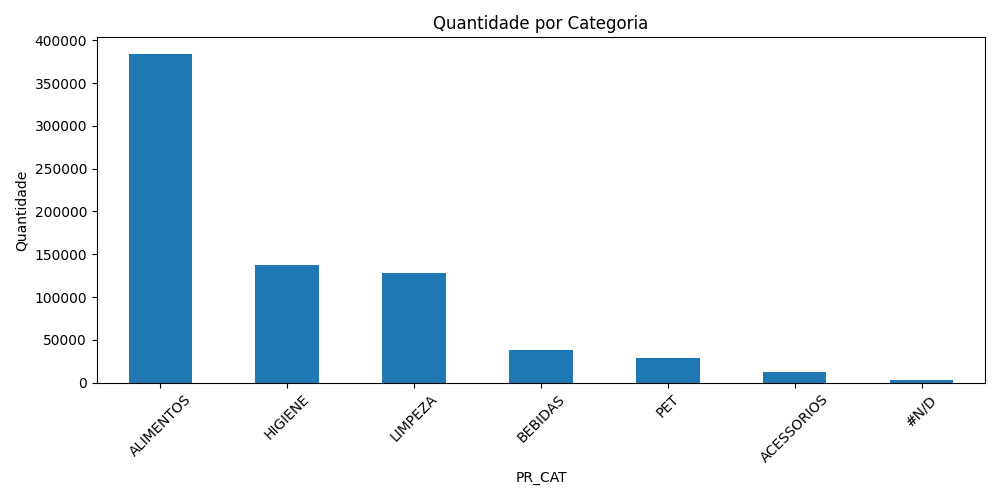
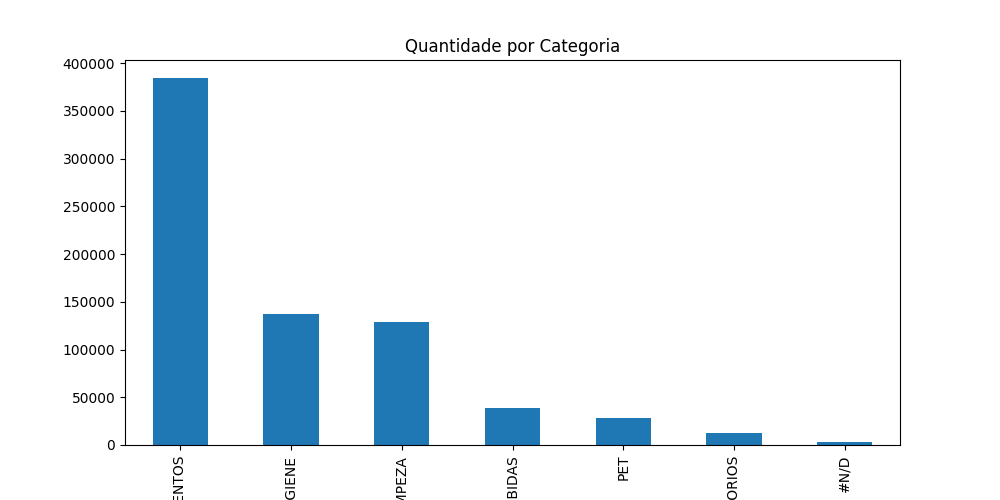
Finalizando projeto: análise de recorrência, insights técnicos e README completo

diff --git a/main.py b/main.py
@@ -3,10 +3,6 @@
 # Aluna: Caroline de Souza Cunha Lopes
 # ==========================================
 
-# =========================
-# IMPORTAÇÃO DAS BIBLIOTECAS
-# =========================
-
 import pandas as pd
 import numpy as np
 import matplotlib.pyplot as plt
@@ -21,64 +17,41 @@ if not os.path.exists('imagens'):
 # =========================
 
 print("Lendo base de dados...")
-
-# Leitura do arquivo
 df = pd.read_csv("Base_Varejo.csv", sep=";", encoding="latin1")
 
-# Correção: Remove colunas 'Unnamed' extras logo após a leitura
+# Remove colunas 'Unnamed' extras
 df = df.loc[:, ~df.columns.str.contains('^Unnamed')]
 
 print("\nBase carregada com sucesso!")
-
-# =========================
-# VISUALIZAÇÃO INICIAL
-# =========================
-
-print("\nPrimeiras linhas da base:")
-print(df.head())
-
-print("\nInformações gerais:")
-print(df.info())
-
-print("\nValores nulos:")
-print(df.isnull().sum())
 
 # =========================
 # REMOÇÃO DE DUPLICIDADES
 # =========================
 
 df = df.drop_duplicates()
-
 print("\nDuplicidades removidas!")
 
 # =========================
-# LIMPEZA DE COLUNAS TEXTUAIS
+# LIMPEZA DE COLUNAS E NULOS
 # =========================
 
-# Produto
+# Produto: Padronização
 if "PR_NOME" in df.columns:
     df["PR_NOME"] = df["PR_NOME"].astype(str).str.strip().str.title()
 
-# Categoria
+# Categoria: Tratamento com "Sem Categoria"
 if "PR_CAT" in df.columns:
-    df["PR_CAT"] = df["PR_CAT"].astype(str).str.strip().str.upper()
+    df["PR_CAT"] = df["PR_CAT"].fillna("Sem Categoria").astype(str).str.strip().str.upper()
 
-# =========================
-# TRATAMENTO DE DATAS
-# =========================
-
+# Tratamento de Datas
 if "DATA" in df.columns:
     df["DATA"] = pd.to_datetime(df["DATA"], dayfirst=True, errors="coerce")
-    print("\nDatas convertidas!")
+    print("Datas convertidas.")
 
-# =========================
-# TRATAMENTO DE VALORES NULOS
-# =========================
-
+# Número de filhos: Imputação pela mediana
 if "CL_FHL" in df.columns:
     mediana_filhos = df["CL_FHL"].median()
     df["CL_FHL"] = df["CL_FHL"].fillna(mediana_filhos)
-    print("\nValores nulos tratados!")
 
 # =========================
 # ESTATÍSTICA DESCRITIVA
@@ -86,12 +59,8 @@ if "CL_FHL" in df.columns:
 
 print("\n========== ESTATÍSTICA DESCRITIVA ==========")
 if "CL_FHL" in df.columns:
-    print(f"\nContagem Total: {df['CL_FHL'].count()}")
-    print(f"Média: {df['CL_FHL'].mean():.2f}")
-    print(f"Mediana: {df['CL_FHL'].median():.2f}")
-    print(f"Moda: {df['CL_FHL'].mode()[0]}")
-    print(f"Mínimo: {df['CL_FHL'].min()}")
-    print(f"Máximo: {df['CL_FHL'].max()}")
+    print(f"Média: {df['CL_FHL'].mean():.2f} | Mediana: {df['CL_FHL'].median():.2f}")
+    print(f"Moda: {df['CL_FHL'].mode()[0]} | Mínimo: {df['CL_FHL'].min()} | Máximo: {df['CL_FHL'].max()}")
 
 # =========================
 # AGRUPAMENTOS
@@ -107,43 +76,34 @@ if "PR_CAT" in df.columns:
     categorias = df.groupby("PR_CAT").size().reset_index(name="Total_Registros")
     print("\nVolume por Categoria:\n", categorias)
 
+# Análise de Recorrência (Mesmo Dia)
+print("\n========== ANÁLISE DE RECORRÊNCIA (MESMO DIA) ==========")
+if "CL_ID" in df.columns and "PR_NOME" in df.columns and "DATA" in df.columns:
+    recorrencia_diaria = df.groupby(['CL_ID', 'PR_NOME', 'DATA']).size().reset_index(name='Frequencia_No_Dia')
+    mesmo_dia = recorrencia_diaria[recorrencia_diaria['Frequencia_No_Dia'] > 1]
+    
+    print(f"Total de registros com compra repetida do mesmo item no mesmo dia: {len(mesmo_dia)}")
+    print(mesmo_dia.head())
+
 # =========================
 # CRIAÇÃO DOS GRÁFICOS
 # =========================
 
-# Gráfico 1 - Categorias
 if "PR_CAT" in df.columns:
     plt.figure(figsize=(10, 5))
     df["PR_CAT"].value_counts().plot(kind="bar")
     plt.title("Quantidade por Categoria")
-    plt.ylabel("Quantidade")
-    plt.xticks(rotation=45)
-    plt.tight_layout()
     plt.savefig("imagens/grafico_categoria.png")
-    plt.show()
-    print("\nGráfico de categorias salvo!")
 
-# Gráfico 2 - Produtos
 if "PR_NOME" in df.columns:
     plt.figure(figsize=(12, 5))
     df["PR_NOME"].value_counts().head(10).plot(kind="bar")
     plt.title("Top 10 Produtos")
-    plt.ylabel("Quantidade")
-    plt.xticks(rotation=45)
-    plt.tight_layout()
     plt.savefig("imagens/grafico_produtos.png")
-    plt.show()
-    print("\nGráfico de produtos salvo!")
 
 # =========================
-# EXPORTAÇÃO DA BASE LIMPA
+# EXPORTAÇÃO
 # =========================
 
 df.to_csv("df_limpo.csv", index=False)
-print("\nBase limpa exportada com sucesso!")
-
-# =========================
-# FINALIZAÇÃO
-# =========================
-
-print("\nProjeto executado com sucesso!")
+print("\nProjeto finalizado e base limpa exportada para 'df_limpo.csv'!")

diff --git a/README.md b/README.md
@@ -106,6 +106,13 @@ A remoção de duplicidades e a padronização das informações foram fundament
 
 ---
 
+# 🔍 Análise Avançada: Recorrência e Granularidade dos Dados
+Ao analisar a recorrência de compras pelo mesmo CL_ID, observamos que a base possui uma granularidade transacional. O fato de o mesmo cliente adquirir o mesmo produto múltiplas vezes no mesmo dia indica o comportamento de compras fracionadas.
+
+Implicação Técnica: Para análises de fidelidade futura, será necessário consolidar esses registros por CL_ID, DATA e PR_NOME para evitar a duplicidade de contagem nas métricas de demanda.
+
+Comportamento do Consumidor: Este achado é fundamental para entender que cada registro representa um ato isolado de consumo, e não necessariamente o volume total de um item por visita única.
+
 # 🛠 Tecnologias Utilizadas
 
 - Python
